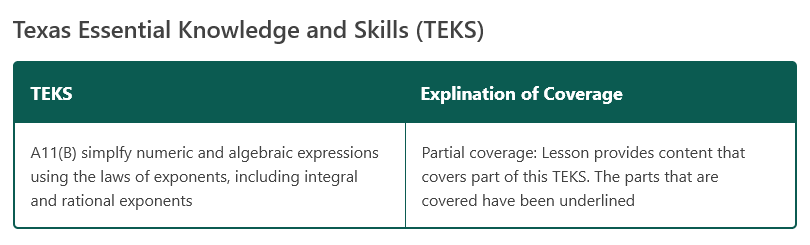
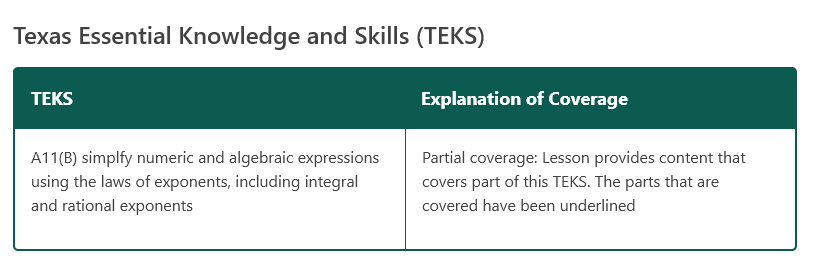
Add vertical alignment and updated png

diff --git a/src/styles/content.scss b/src/styles/content.scss
@@ -151,6 +151,10 @@ table.os-raise-textheavytable {
     text-align: left;
   }
 
+  td {
+    vertical-align: top;
+  }
+
   td:first-child {
     border-left: none;
   }
